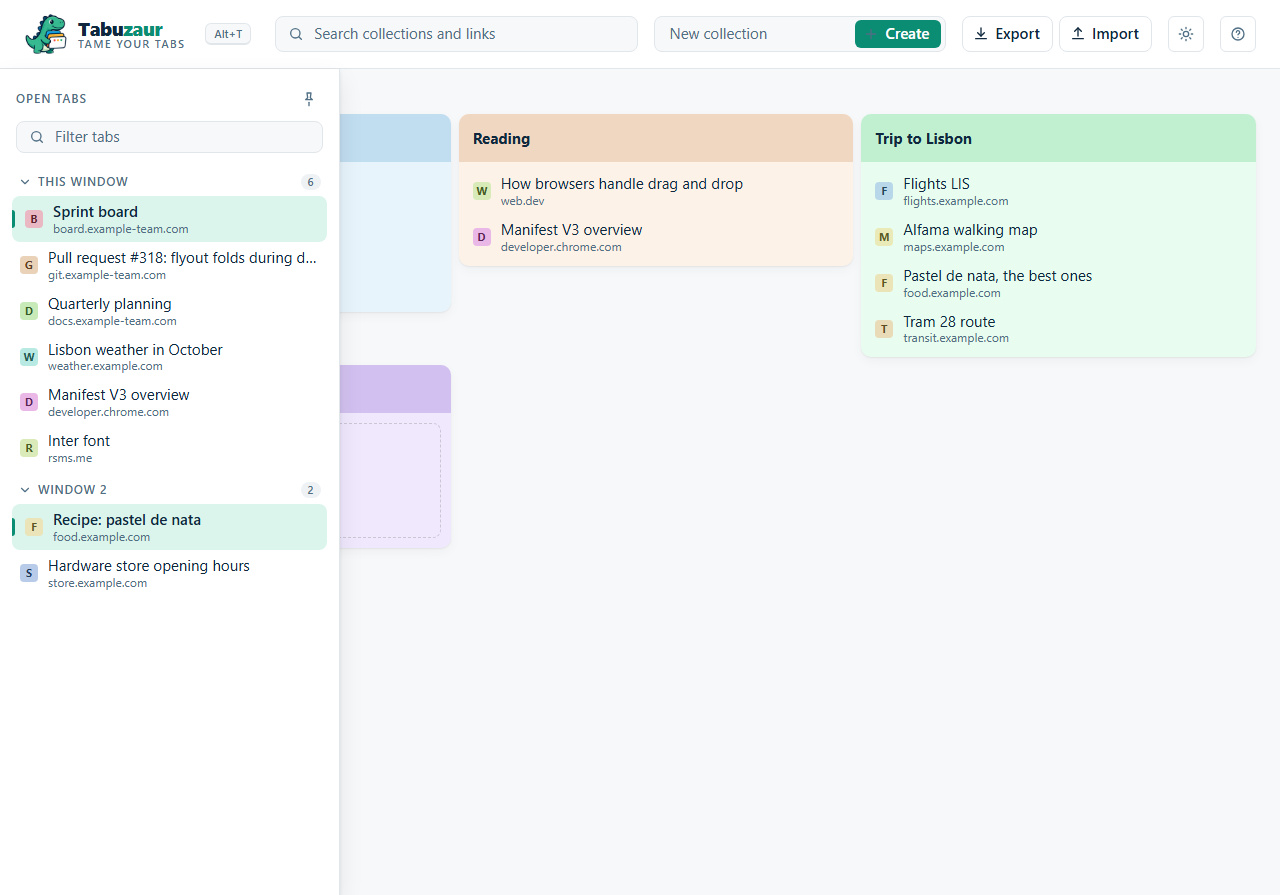
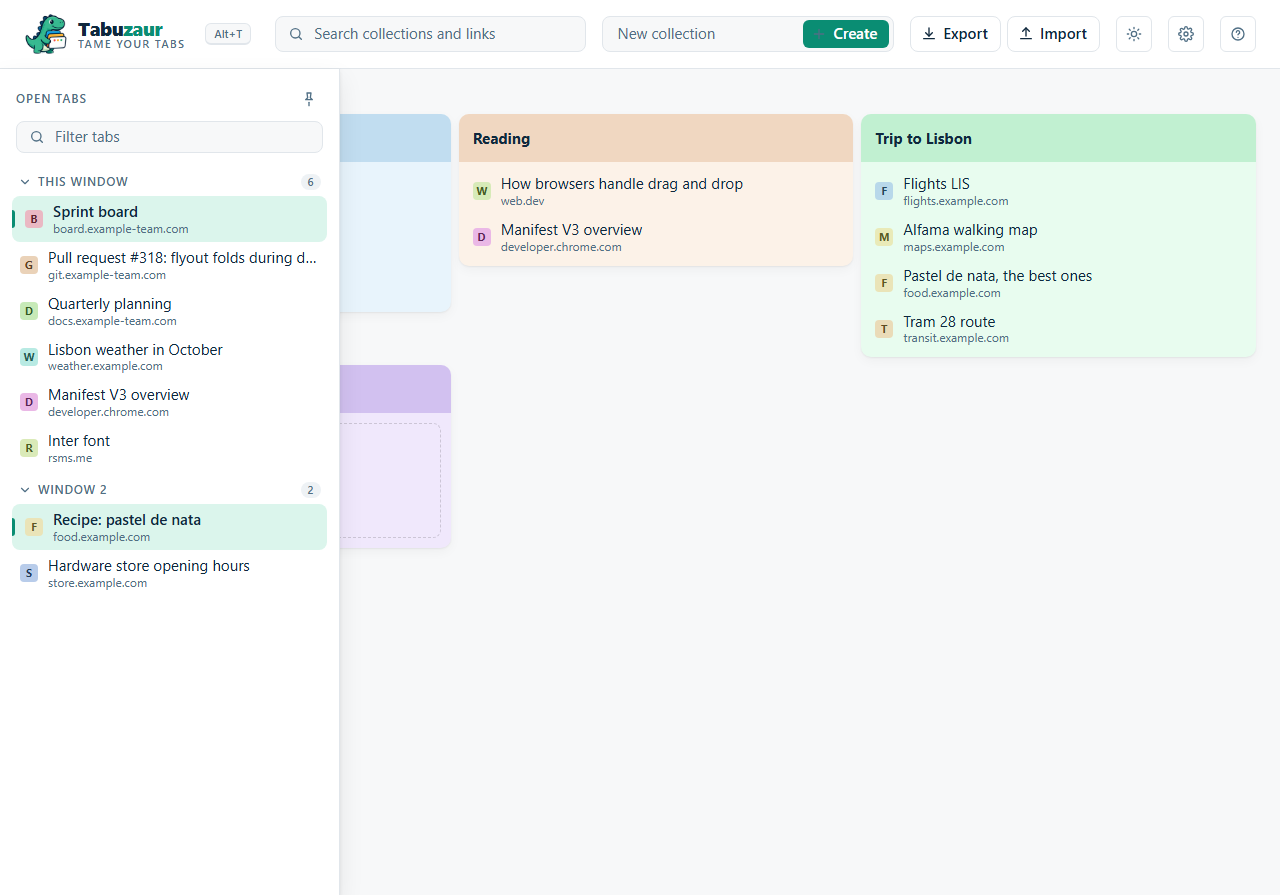
feat: option to open Tabuzaur in every new tab, off by default
The service worker watches tabs.onCreated; when the setting is on and the tab is Chrome's blank new-tab page (isBlankNewTab, tested), it points the tab at tabs.html. A gear in the header opens a settings dialog with the one checkbox; the help and README describe it; settings.png rendered. npm run verify exit 0: 76 tests.

Changed region(s): [[0.625, 0.0, 0.9375, 0.0603], [0.4688, 0.0302, 0.5938, 0.0603]]

diff --git a/src/tabs/main.ts b/src/tabs/main.ts
@@ -3,7 +3,7 @@ import { CollectionBook, findMatch } from "../lib/collections.ts";
 import type { Clock, Collection, IdSource, SavedPage } from "../lib/model.ts";
 import { HUE_COUNT, RandomIdSource, SystemClock } from "../lib/model.ts";
 import type { Persistence, Theme } from "../lib/storage.ts";
-import { FlagStore, LocalPersistence, SIDEBAR_PINNED_KEY, THEMES, ThemeStore } from "../lib/storage.ts";
+import { FlagStore, LocalPersistence, OPEN_IN_NEW_TAB_KEY, SIDEBAR_PINNED_KEY, THEMES, ThemeStore } from "../lib/storage.ts";
 import type { OpenTab, TabBrowser } from "../lib/tabs.ts";
 import { ChromeTabBrowser } from "../lib/tabs.ts";
 import { hostnameOf, hueOf, initialOf } from "../lib/urls.ts";
@@ -26,6 +26,7 @@ const ICONS = {
   plus: '<path d="M12 5v14M5 12h14"/>',
   download: '<path d="M12 3v12"/><path d="m7 10 5 5 5-5"/><path d="M4 19h16"/>',
   upload: '<path d="M12 15V3"/><path d="m7 8 5-5 5 5"/><path d="M4 19h16"/>',
+  gear: '<circle cx="12" cy="12" r="3"/><path d="M19.4 15a1.7 1.7 0 0 0 .3 1.8l.1.1a2 2 0 1 1-2.8 2.8l-.1-.1a1.7 1.7 0 0 0-1.8-.3 1.7 1.7 0 0 0-1 1.5V21a2 2 0 1 1-4 0v-.1a1.7 1.7 0 0 0-1.1-1.5 1.7 1.7 0 0 0-1.8.3l-.1.1a2 2 0 1 1-2.8-2.8l.1-.1a1.7 1.7 0 0 0 .3-1.8 1.7 1.7 0 0 0-1.5-1H3a2 2 0 1 1 0-4h.1a1.7 1.7 0 0 0 1.5-1.1 1.7 1.7 0 0 0-.3-1.8l-.1-.1a2 2 0 1 1 2.8-2.8l.1.1a1.7 1.7 0 0 0 1.8.3H9a1.7 1.7 0 0 0 1-1.5V3a2 2 0 1 1 4 0v.1a1.7 1.7 0 0 0 1 1.5 1.7 1.7 0 0 0 1.8-.3l.1-.1a2 2 0 1 1 2.8 2.8l-.1.1a1.7 1.7 0 0 0-.3 1.8V9a1.7 1.7 0 0 0 1.5 1H21a2 2 0 1 1 0 4h-.1a1.7 1.7 0 0 0-1.5 1z"/>',
   help: '<circle cx="12" cy="12" r="9"/><path d="M9.5 9.5a2.5 2.5 0 1 1 3.5 2.3c-.7.3-1 .8-1 1.5"/><path d="M12 17h.01"/>',
 } as const;
 
@@ -54,6 +55,7 @@ class TabsPage {
   private tabQuery = "";
   private theme: Theme = "system";
   private pinned = false;
+  private openInNewTab = false;
   private shortcut = "";
   private renaming: string | undefined;
   private editingPage: PageRef | undefined;
@@ -68,6 +70,7 @@ class TabsPage {
     private readonly persistence: Persistence,
     private readonly themes: ThemeStore,
     private readonly sidebarPinned: FlagStore,
+    private readonly newTabFlag: FlagStore,
     private readonly browser: TabBrowser,
     private readonly clock: Clock,
     private readonly ids: IdSource,
@@ -76,6 +79,7 @@ class TabsPage {
   async start(): Promise<void> {
     this.theme = await this.themes.load();
     this.pinned = await this.sidebarPinned.load();
+    this.openInNewTab = await this.newTabFlag.load();
     this.applyTheme();
     this.darkSystem.addEventListener("change", () => { this.applyTheme(); });
     await this.loadBook();
@@ -169,8 +173,45 @@ class TabsPage {
       this.run(() => this.change(this.book.create(name.value, this.clock, this.ids)));
     });
 
-    header.append(brand, search, form, this.backupButtons(), this.themeButton(), this.helpButton());
+    header.append(brand, search, form, this.backupButtons(), this.themeButton(), this.settingsButton(), this.helpButton());
     return header;
+  }
+
+  private settingsButton(): HTMLElement {
+    const gear = button(() => { this.openSettings(); }, "button", "icon settings");
+    gear.append(icon("gear"));
+    labelled(gear, "Settings");
+    return gear;
+  }
+
+  /** The settings dialog: one option so far, off by default. */
+  private openSettings(): void {
+    const dialog = el("dialog", "settings") as HTMLDialogElement;
+    const heading = el("h3");
+    heading.textContent = "Settings";
+    const option = el("label", "option");
+    const box = el("input") as HTMLInputElement;
+    box.type = "checkbox";
+    box.checked = this.openInNewTab;
+    const words = el("span");
+    const name = el("strong");
+    name.textContent = "Open Tabuzaur in every new tab";
+    const note = el("span", "note");
+    note.textContent = "A new blank tab (Ctrl+T or the + button) shows the Tabuzaur page instead of Chrome's new-tab page. Tabs opened on an address are not affected.";
+    words.append(name, note);
+    option.append(box, words);
+    box.addEventListener("change", () => {
+      this.run(async () => {
+        await this.newTabFlag.save(box.checked);
+        this.openInNewTab = box.checked;
+      }, () => undefined);
+    });
+    const actions = el("div", "actions");
+    actions.append(button(() => { dialog.close(); dialog.remove(); }, "button", "primary", "Close"));
+    dialog.append(heading, option, actions);
+    dialog.addEventListener("cancel", () => { dialog.remove(); });
+    document.body.append(dialog);
+    dialog.showModal();
   }
 
   private helpButton(): HTMLElement {
@@ -839,6 +880,7 @@ const page = new TabsPage(
   new LocalPersistence(chrome.storage.local, chrome.storage.onChanged),
   new ThemeStore(chrome.storage.local),
   new FlagStore(chrome.storage.local, SIDEBAR_PINNED_KEY),
+  new FlagStore(chrome.storage.local, OPEN_IN_NEW_TAB_KEY),
   new ChromeTabBrowser(),
   new SystemClock(),
   new RandomIdSource(),

diff --git a/help.html b/help.html
@@ -66,8 +66,10 @@
         <ul>
           <li><strong>The toolbar button.</strong> Click the dinosaur next to the address bar. Pin it there with the puzzle-piece menu if Chrome hides it.</li>
           <li><strong>Alt+T.</strong> Chrome assigns this key at install when no other extension uses it. The page header shows the key in effect. If it shows <em>No shortcut assigned</em>, click it and set a key on <code>chrome://extensions/shortcuts</code>.</li>
+          <li><strong>Every new tab.</strong> Off by default. Open Settings with the gear in the header and tick <strong>Open Tabuzaur in every new tab</strong>. A new blank tab then shows the Tabuzaur page. Untick it to get Chrome's new-tab page back.</li>
           <li><strong>Start page.</strong> Copy the ID from the Tabuzaur card. Open <code>chrome://settings/onStartup</code>, choose <strong>Open a specific page or set of pages</strong>, click <strong>Add a new page</strong> and enter <code>chrome-extension://&lt;id&gt;/tabs.html</code>.</li>
         </ul>
+        <figure><img src="help/img/settings.png" alt="The settings dialog with the new-tab option" /><figcaption>Settings: the new-tab option, off until you tick it.</figcaption></figure>
         <figure><img src="help/img/chrome-startup.png" alt="Chrome's On startup setting with the Tabuzaur page added" /><figcaption>The On startup setting with the Tabuzaur page.</figcaption></figure>
         <figure><img src="help/img/chrome-shortcuts.png" alt="Chrome's keyboard shortcuts page with the Tabuzaur row" /><figcaption>The shortcuts page: any key can be set here.</figcaption></figure>
       </section>
@@ -76,7 +78,7 @@
         <h2>The page</h2>
         <figure><img src="help/img/page.png" alt="The Tabuzaur page with four collections" /><figcaption>Header on top, the open-tab rail on the left, collections in the middle.</figcaption></figure>
         <ul>
-          <li><strong>Header.</strong> Search, a field to create a collection, Export, Import, the theme button and this help.</li>
+          <li><strong>Header.</strong> Search, a field to create a collection, Export, Import, the theme button, Settings and this help.</li>
           <li><strong>Open tabs.</strong> The thin rail on the left shows how many tabs are open. Rest the pointer on it and the panel opens with every open tab, grouped by window.</li>
           <li><strong>Pin.</strong> The pin at the top of the panel keeps it open as a column. Click it again and the panel closes when the pointer leaves it.</li>
         </ul>

diff --git a/tests/tabs.test.ts b/tests/tabs.test.ts
@@ -1,6 +1,6 @@
 import { describe, expect, it } from "vitest";
 import type { OpenTab } from "../src/lib/tabs.ts";
-import { findOpenTab } from "../src/lib/tabs.ts";
+import { findOpenTab, isBlankNewTab } from "../src/lib/tabs.ts";
 
 const first: OpenTab = { tabId: 1, windowId: 10, active: false, title: "A", url: "https://a.example/" };
 const second: OpenTab = { tabId: 2, windowId: 20, active: true, title: "B", url: "https://b.example/x?y=1" };
@@ -16,5 +16,21 @@ describe("findOpenTab", () => {
     expect(findOpenTab([first, second], "https://a.example")).toBeUndefined();
     expect(findOpenTab([first, second], "https://b.example/x")).toBeUndefined();
     expect(findOpenTab([], "https://a.example/")).toBeUndefined();
+  });
+});
+
+describe("isBlankNewTab", () => {
+  it("is true for Chrome's new-tab page, pending or loaded, with or without the slash", () => {
+    expect(isBlankNewTab(undefined, "chrome://newtab/")).toBe(true);
+    expect(isBlankNewTab("", "chrome://newtab")).toBe(true);
+    expect(isBlankNewTab("chrome://newtab/", undefined)).toBe(true);
+  });
+
+  it("is false for a tab opened on an address, or still unknown", () => {
+    expect(isBlankNewTab(undefined, "https://example.com/")).toBe(false);
+    expect(isBlankNewTab("https://example.com/", undefined)).toBe(false);
+    expect(isBlankNewTab("chrome://newtab/", "https://example.com/")).toBe(false);
+    expect(isBlankNewTab(undefined, undefined)).toBe(false);
+    expect(isBlankNewTab("", undefined)).toBe(false);
   });
 });

diff --git a/src/tabs/tabs.css b/src/tabs/tabs.css
@@ -242,6 +242,7 @@ button.icon:hover {
 }
 
 button.theme,
+button.settings,
 button.help {
   border: 1px solid var(--line);
   width: 36px;
@@ -299,7 +300,33 @@ button.danger-outline:hover {
   background: #d23b3b14;
 }
 
-dialog.import {
+dialog.settings .option {
+  display: flex;
+  align-items: flex-start;
+  gap: 12px;
+  cursor: pointer;
+}
+
+dialog.settings .option input {
+  margin-top: 4px;
+  width: 18px;
+  height: 18px;
+  accent-color: var(--accent);
+}
+
+dialog.settings .option span {
+  display: flex;
+  flex-direction: column;
+}
+
+dialog.settings .note {
+  margin-top: 2px;
+  color: var(--muted);
+  font-size: 14px;
+}
+
+dialog.import,
+dialog.settings {
   width: min(460px, 90vw);
   padding: 20px 22px;
   border: 1px solid var(--line);
@@ -309,11 +336,13 @@ dialog.import {
   box-shadow: var(--shadow-lift);
 }
 
-dialog.import::backdrop {
+dialog.import::backdrop,
+dialog.settings::backdrop {
   background: #0f283d66;
 }
 
-dialog.import h3 {
+dialog.import h3,
+dialog.settings h3 {
   margin: 0 0 12px;
   font-size: 16px;
 }
@@ -323,14 +352,16 @@ dialog.import p {
   color: var(--muted);
 }
 
-dialog.import .actions {
+dialog.import .actions,
+dialog.settings .actions {
   display: flex;
   justify-content: flex-end;
   gap: 8px;
   margin-top: 16px;
 }
 
-dialog.import .actions button.primary {
+dialog.import .actions button.primary,
+dialog.settings .actions button.primary {
   height: 36px;
   padding: 0 14px;
 }

diff --git a/src/background.ts b/src/background.ts
@@ -1,4 +1,5 @@
-import { ChromeTabBrowser } from "./lib/tabs.ts";
+import { FlagStore, OPEN_IN_NEW_TAB_KEY } from "./lib/storage.ts";
+import { ChromeTabBrowser, isBlankNewTab } from "./lib/tabs.ts";
 
 /** The toolbar button opens the Tabuzaur page, or jumps to it when it is already open. */
 chrome.action.onClicked.addListener(() => {
@@ -15,4 +16,20 @@ chrome.runtime.onInstalled.addListener((details) => {
   new ChromeTabBrowser().openInNewTab(chrome.runtime.getURL("help.html")).catch((error: unknown) => {
     console.error("Tabuzaur could not open its help page", error);
   });
+});
+
+/**
+ * Optional, off by default: a new blank tab shows the Tabuzaur page. The setting is read on every
+ * event, because the service worker may have been stopped and restarted in between.
+ */
+chrome.tabs.onCreated.addListener((tab) => {
+  if (tab.id === undefined || !isBlankNewTab(tab.url, tab.pendingUrl)) {
+    return;
+  }
+  const id = tab.id;
+  new FlagStore(chrome.storage.local, OPEN_IN_NEW_TAB_KEY).load()
+    .then((on) => (on ? chrome.tabs.update(id, { url: chrome.runtime.getURL("tabs.html") }) : undefined))
+    .catch((error: unknown) => {
+      console.error("Tabuzaur could not take over the new tab", error);
+    });
 });

diff --git a/src/lib/tabs.ts b/src/lib/tabs.ts
@@ -13,6 +13,16 @@ export function findOpenTab(tabs: readonly OpenTab[], url: string): OpenTab | un
   return tabs.find((t) => t.url === url);
 }
 
+/**
+ * Whether a freshly created tab is Chrome's blank new-tab page (Ctrl+T, the + button), as opposed
+ * to a tab opened on an address. Chrome reports the page as pendingUrl while it loads and as url
+ * afterwards, with or without a trailing slash.
+ */
+export function isBlankNewTab(url: string | undefined, pendingUrl: string | undefined): boolean {
+  const blank = (u: string | undefined): boolean => u === "chrome://newtab/" || u === "chrome://newtab";
+  return blank(pendingUrl) || (pendingUrl === undefined && blank(url));
+}
+
 /** Reads and changes the browser's tabs. The Chrome adapter is the only implementation outside tests. */
 export interface TabBrowser {
   /** Every open tab of every window, in window and tab-strip order, without tabs that have no URL yet. */

diff --git a/tools/render/harness.html b/tools/render/harness.html
@@ -90,6 +90,8 @@
           const tab = openTabs[3];
           dt.setData(DRAG_TYPE, JSON.stringify({ page: { title: tab.title, url: tab.url } }));
           document.querySelectorAll(".card")[2].dispatchEvent(new DragEvent("drop", { dataTransfer: dt, bubbles: true, cancelable: true }));
+        } else if (state === "settings") {
+          q("header.top button.settings").click();
         } else if (state === "dialog") {
           const dt = new DataTransfer();
           dt.items.add(new File([JSON.stringify(store.tabuzaur)], "tabuzaur-backup-2026-10-13.json", { type: "application/json" }));

diff --git a/src/lib/storage.ts b/src/lib/storage.ts
@@ -138,6 +138,8 @@ export class ThemeStore {
 }
 
 export const SIDEBAR_PINNED_KEY = "tabuzaur-sidebar-pinned";
+/** When true, a new blank tab opens the Tabuzaur page instead of Chrome's new-tab page. Off until saved. */
+export const OPEN_IN_NEW_TAB_KEY = "tabuzaur-open-in-new-tab";
 
 /** A boolean setting in the key-value area under its own key; false until saved. */
 export class FlagStore {

diff --git a/README.md b/README.md
@@ -35,6 +35,8 @@ To update: unzip the new release over the same folder, then click the reload ico
 - **Alt+T.** Chrome assigns this key at install when no other extension uses it. The page header
   shows the key in effect. If it shows "No shortcut assigned", click it and set a key on
   `chrome://extensions/shortcuts`.
+- **Every new tab.** Off by default. Open Settings with the gear in the header and tick
+  **Open Tabuzaur in every new tab**. A new blank tab then shows the Tabuzaur page.
 - **Start page.** Copy the ID from the Tabuzaur card. In Chrome Settings, open **On startup**,
   choose **Open a specific page or set of pages**, click **Add a new page** and enter
   `chrome-extension://<id>/tabs.html`.
@@ -122,7 +124,8 @@ gate, zips `dist/` and publishes the zip with its SHA-256 as a GitHub Release.
   The Chrome API is touched only in thin adapters. The DOM code in `src/tabs/` is checked by the
   headless render and by hand in Chrome.
 - The welcome page is Chrome's startup-page setting, not a new-tab override, so Ctrl+T stays
-  Chrome's and the user opts in.
+  Chrome's unless the user turns on the new-tab option. That option works through the tabs API
+  on freshly created blank tabs and can be turned off again.
 - TypeScript, Vite, Vitest and ESLint. Plain Vite with fixed entry names and relative asset paths.
 - Brand, from `branding/showcase.png`: navy `#0f283d`, green `#0a8d73` and `#36b88f`, mint
   `#dbf5ec`, tagline grey `#506f85`. The mascot on a transparent background is the icon.
